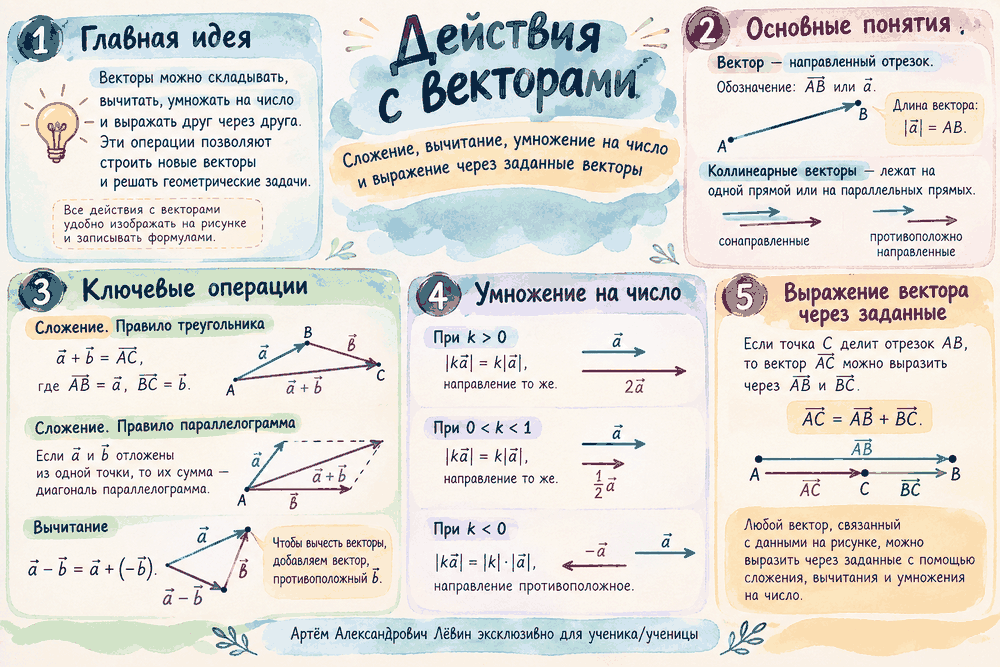
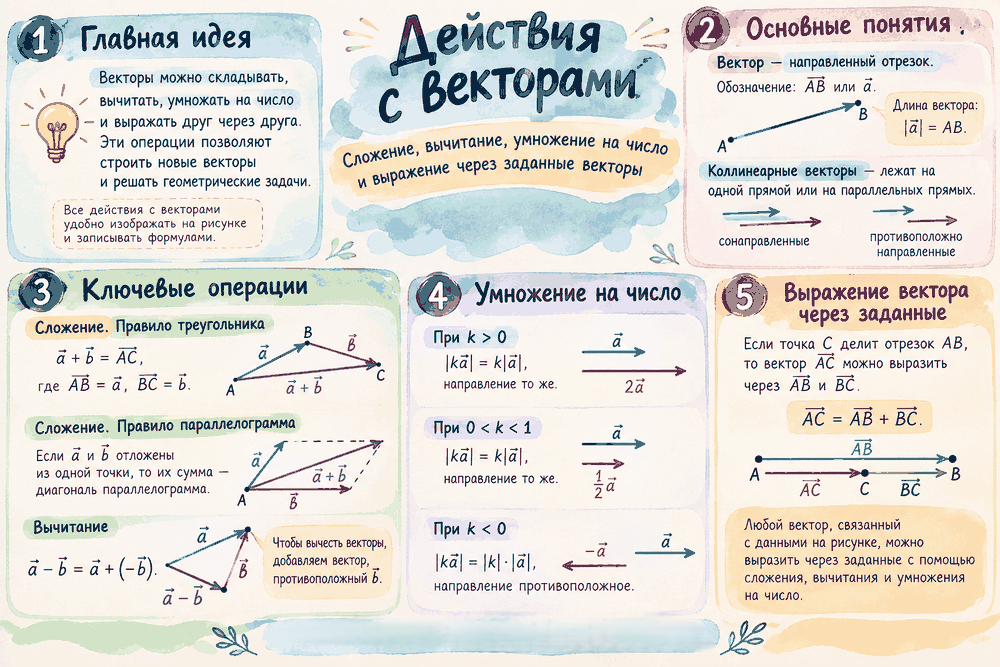
02/10/26

Changed region(s): [[0.279, 0.8996, 0.713, 0.9895]]

diff --git a/material_prompts/ege_plan.md b/material_prompts/ege_plan.md
@@ -1,0 +1,1 @@
+До 31 декабря нужно отвести под адаптацию имеющихся знаний под формате ЕГЭ: решение задач прикладного характера (задание 10), графиков (12), текстовых задачи (11, в том числе финансовых 13), теория вероятностей (4, в том числе сложная 5) и статистика (задание 6), векторы (2), сложные рациональные уравнения (задание 14, в том числе с модулем и различными методами) и сложные рациональные неравенства (задание 16).Затем после не забудьте включить в программу степени и все связанное с ними (вычисления, преобразования, уравнения, неравенства, графики, задачи прикладного характера номер 10) и логарифмы (вычисления, преобразования, уравнения, неравенства, графики, задачи прикладного характера номер 10). При чем сначала степени, логарифмы, и только потом тригонометрия (вычисления, преобразования, уравнения, неравенства, графики, задачи прикладного характера номер 10). Затем производная (задание номер 9 и задание номер 17) основательно. После этого параметр (выделяем месяца 3 для всестороннего изучения). Затем подробное изучение планиметрии и стереометрии (на каждое месяца 3). В конце теория чисел. В конце нарешивание вариантов, комплексное повторение

diff --git a/material_prompts/pi.md b/material_prompts/pi.md
@@ -1,5 +1,5 @@
-ФИО: Анастасия Павлова
-STUDENT=nastya_pavlova
+ФИО: Марк Гукин
+STUDENT=mark_gukin
 Команды:
 
 1. "создай чек-лист" запускает работу промпта из файла: cheklist_prompt
